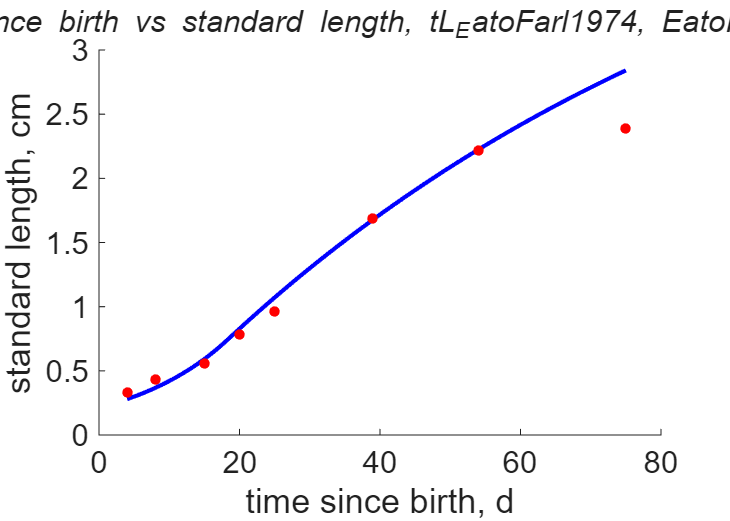
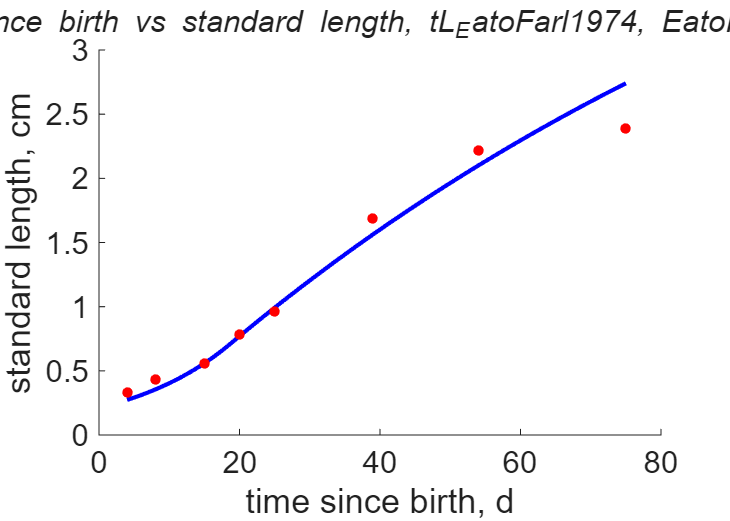
Fixed mistake in prediction of reproduction over time

Changed region(s): [[0.1808, 0.1228, 0.874, 0.7678]]

diff --git a/data-full version less data only ODE/Danio_rerio_res.html b/data-full version less data only ODE/Danio_rerio_res.html
@@ -44,7 +44,7 @@
   </div>
 
   <div class="par">
-  <h4>COMPLETE = 4.6; MRE =    0.135; SMAE =    0.164; SMSE =    0.035 </h4>
+  <h4>COMPLETE = 4.6; MRE =    0.138; SMAE =    0.176; SMSE =    0.038 </h4>
   </div>
 
   <p class="clear"></p>
@@ -53,47 +53,47 @@
   <h2>Data & predictions</h2>
   <TABLE id="prd">
     <TR  class="head"><TH>data</TH> <TH>prd</TH> <TH>RE</TH>  <TH>symbol</TH> <TH>units</TH> <TH>description</TH> </TR>
-    <TR><TD>  5</TD> <TD>3.608</TD> <TD>0.2784</TD> <TD>ab</TD> <TD>d</TD> <TD>age at birth</TD></TR>
-    <TR><TD> 22</TD> <TD>19.43</TD> <TD>0.1167</TD> <TD>aj</TD> <TD>d</TD> <TD>age at metam</TD></TR>
-    <TR><TD> 75</TD> <TD>73.84</TD> <TD>0.01553</TD> <TD>ap</TD> <TD>d</TD> <TD>age at puberty</TD></TR>
-    <TR><TD>1642</TD> <TD>1641</TD> <TD>0.001068</TD> <TD>am</TD> <TD>d</TD> <TD>life span</TD></TR>
-    <TR><TD>0.07</TD> <TD>0.08513</TD> <TD>0.2161</TD> <TD>L0</TD> <TD>cm</TD> <TD>egg diameter</TD></TR>
-    <TR><TD>0.4</TD> <TD>0.2705</TD> <TD>0.3238</TD> <TD>Lb</TD> <TD>cm</TD> <TD>total length at birth</TD></TR>
-    <TR><TD>  1</TD> <TD>0.7972</TD> <TD>0.2028</TD> <TD>Lj</TD> <TD>cm</TD> <TD>total length at metam</TD></TR>
-    <TR><TD>3.25</TD> <TD>3.03</TD> <TD>0.06781</TD> <TD>Lp</TD> <TD>cm</TD> <TD>total length at puberty</TD></TR>
-    <TR><TD>  5</TD> <TD>5.69</TD> <TD>0.138</TD> <TD>Li</TD> <TD>cm</TD> <TD>ultimate total length</TD></TR>
-    <TR><TD>0.0001</TD> <TD>6.46e-05</TD> <TD>0.354</TD> <TD>Wd0</TD> <TD>g</TD> <TD>egg dry weight</TD></TR>
-    <TR><TD>  1</TD> <TD>1.254</TD> <TD>0.2541</TD> <TD>Wwi</TD> <TD>g</TD> <TD>ultimate wet weight</TD></TR>
-    <TR><TD>240</TD> <TD>201.9</TD> <TD>0.1586</TD> <TD>Ri</TD> <TD>#/d</TD> <TD>max reproduction</TD></TR>
-    <TR><TD>0.15</TD> <TD>0.151</TD> <TD>0.006699</TD> <TD>GSI</TD> <TD>g/g</TD> <TD>Gonado Somatic Index</TD></TR>
-    <TR><TD colspan="2">see figure</TD> <TD>0.08692</TD> <TD>tL_Schi2002</TD> <TD colspan="2">time since fertilization <font color="blue"><i>vs.</i></font> total length</TD>
-    <TR><TD colspan="2">see figure</TD> <TD>0.0839</TD> <TD>tL_EatoFarl1974</TD> <TD colspan="2">time since birth <font color="blue"><i>vs.</i></font> standard length</TD>
-    <TR><TD colspan="2">see figure</TD> <TD>0.101</TD> <TD>tL_BagaPels2001</TD> <TD colspan="2">time since fertilizatixon <font color="blue"><i>vs.</i></font> total length</TD>
-    <TR><TD colspan="2">see figure</TD> <TD>0.1578</TD> <TD>tWw_BagaPels2001</TD> <TD colspan="2">time since fertilization <font color="blue"><i>vs.</i></font> wet weight</TD>
-    <TR><TD colspan="2">see figure</TD> <TD>0.2065</TD> <TD>tWd_BagaPels2001</TD> <TD colspan="2">time since fertilization <font color="blue"><i>vs.</i></font> dry weight</TD>
-    <TR><TD colspan="2">see figure</TD> <TD>0.165</TD> <TD>tL_BestAdat2010</TD> <TD colspan="2">time since fertilization <font color="blue"><i>vs.</i></font> total length</TD>
-    <TR><TD colspan="2">see figure</TD> <TD>0.06289</TD> <TD>tL_LawrEber2002_high</TD> <TD colspan="2">time since birth <font color="blue"><i>vs.</i></font> total length</TD>
-    <TR><TD colspan="2">see figure</TD> <TD>0.04596</TD> <TD>tL_LawrEber2002_low</TD> <TD colspan="2">time since birth <font color="blue"><i>vs.</i></font> total length</TD>
-    <TR><TD colspan="2">see figure</TD> <TD>0.05048</TD> <TD>tLf1_BeauGous2015</TD> <TD colspan="2">time since fertilization <font color="blue"><i>vs.</i></font> standard length</TD>
-    <TR><TD colspan="2">see figure</TD> <TD>0.05544</TD> <TD>tLf2_BeauGous2015</TD> <TD colspan="2">time since fertilization <font color="blue"><i>vs.</i></font> standard length</TD>
-    <TR><TD colspan="2">see figure</TD> <TD>0.05982</TD> <TD>tLf3_BeauGous2015</TD> <TD colspan="2">time since fertilization <font color="blue"><i>vs.</i></font> standard length</TD>
-    <TR><TD colspan="2">see figure</TD> <TD>0.1147</TD> <TD>tL1</TD> <TD colspan="2">time <font color="blue"><i>vs.</i></font> standard length <font color="blue"></TD>
-    <TR><TD>0.8632</TD> <TD>1.059</TD> <TD>0.2264</TD> <TD>Wwt</TD> <TD>g</TD> <TD>final wet weight</TD></TR>
-    <TR><TD colspan="2">see figure</TD> <TD>0.3136</TD> <TD>tN</TD> <TD colspan="2">time <font color="blue"><i>vs.</i></font> cumulated number of eggs</TD>
-    <TR><TD colspan="2">see figure</TD> <TD>0.1145</TD> <TD>tWw_ValKwa2022</TD> <TD colspan="2">time <font color="blue"><i>vs.</i></font> wet weight</TD>
-    <TR><TD colspan="2">see figure</TD> <TD>0.1221</TD> <TD>tL_ValKwa2022</TD> <TD colspan="2">time <font color="blue"><i>vs.</i></font> total length</TD>
-    <TR><TD colspan="2">see figure</TD> <TD>0.09052</TD> <TD>tJX_ValKwa2022</TD> <TD colspan="2">time <font color="blue"><i>vs.</i></font> feed intake</TD>
-    <TR><TD colspan="2">see figure</TD> <TD>0.03743</TD> <TD>tL_YangYama2019</TD> <TD colspan="2">time <font color="blue"><i>vs.</i></font> total length</TD>
-    <TR><TD colspan="2">see figure</TD> <TD>0.07116</TD> <TD>tWw_YangYama2019</TD> <TD colspan="2">time <font color="blue"><i>vs.</i></font> wet weight</TD>
-    <TR><TD colspan="2">see figure</TD> <TD>0.1511</TD> <TD>tJO_YangYama2019</TD> <TD colspan="2">time <font color="blue"><i>vs.</i></font> oxygen consumption</TD>
-    <TR class="psd"><TD>0.02</TD> <TD>0.03255</TD> <TD>0.6274</TD> <TD>psd.v</TD> <TD>cm/d</TD> <TD>energy conductance</TD></TR>
-    <TR class="psd"><TD> 18</TD> <TD>140.3</TD> <TD>6.795</TD> <TD>psd.p_M</TD> <TD>J/d.cm^3</TD> <TD>vol-spec som maint</TD></TR>
-    <TR class="psd"><TD>0.002</TD> <TD>0.003041</TD> <TD>0.5205</TD> <TD>psd.k_J</TD> <TD>1/d</TD> <TD>maturity maint rate coefficient</TD></TR>
-    <TR class="psd"><TD>0.3</TD> <TD>0.1131</TD> <TD>0.623</TD> <TD>psd.k</TD> <TD>-</TD> <TD>maintenance ratio</TD></TR>
-    <TR class="psd"><TD>0.8</TD> <TD>0.3378</TD> <TD>0.5778</TD> <TD>psd.kap</TD> <TD>-</TD> <TD>allocation fraction to soma</TD></TR>
-    <TR class="psd"><TD>0.8</TD> <TD>0.8018</TD> <TD>0.002268</TD> <TD>psd.kap_G</TD> <TD>-</TD> <TD>growth efficiency</TD></TR>
+    <TR><TD>  5</TD> <TD>3.883</TD> <TD>0.2234</TD> <TD>ab</TD> <TD>d</TD> <TD>age at birth</TD></TR>
+    <TR><TD> 22</TD> <TD>21.27</TD> <TD>0.03299</TD> <TD>aj</TD> <TD>d</TD> <TD>age at metam</TD></TR>
+    <TR><TD> 75</TD> <TD>76.94</TD> <TD>0.0259</TD> <TD>ap</TD> <TD>d</TD> <TD>age at puberty</TD></TR>
+    <TR><TD>1642</TD> <TD>1643</TD> <TD>1.207e-08</TD> <TD>am</TD> <TD>d</TD> <TD>life span</TD></TR>
+    <TR><TD>0.07</TD> <TD>0.08126</TD> <TD>0.1608</TD> <TD>L0</TD> <TD>cm</TD> <TD>egg diameter</TD></TR>
+    <TR><TD>0.4</TD> <TD>0.2682</TD> <TD>0.3296</TD> <TD>Lb</TD> <TD>cm</TD> <TD>total length at birth</TD></TR>
+    <TR><TD>  1</TD> <TD>0.752</TD> <TD>0.248</TD> <TD>Lj</TD> <TD>cm</TD> <TD>total length at metam</TD></TR>
+    <TR><TD>3.25</TD> <TD>2.972</TD> <TD>0.08553</TD> <TD>Lp</TD> <TD>cm</TD> <TD>total length at puberty</TD></TR>
+    <TR><TD>  5</TD> <TD>5.904</TD> <TD>0.1808</TD> <TD>Li</TD> <TD>cm</TD> <TD>ultimate total length</TD></TR>
+    <TR><TD>0.0001</TD> <TD>5.618e-05</TD> <TD>0.4382</TD> <TD>Wd0</TD> <TD>g</TD> <TD>egg dry weight</TD></TR>
+    <TR><TD>  1</TD> <TD>1.175</TD> <TD>0.1745</TD> <TD>Wwi</TD> <TD>g</TD> <TD>ultimate wet weight</TD></TR>
+    <TR><TD>240</TD> <TD>183.5</TD> <TD>0.2354</TD> <TD>Ri</TD> <TD>#/d</TD> <TD>max reproduction</TD></TR>
+    <TR><TD>0.15</TD> <TD>0.132</TD> <TD>0.1202</TD> <TD>GSI</TD> <TD>g/g</TD> <TD>Gonado Somatic Index</TD></TR>
+    <TR><TD colspan="2">see figure</TD> <TD>0.09091</TD> <TD>tL_Schi2002</TD> <TD colspan="2">time since fertilization <font color="blue"><i>vs.</i></font> total length</TD>
+    <TR><TD colspan="2">see figure</TD> <TD>0.08372</TD> <TD>tL_EatoFarl1974</TD> <TD colspan="2">time since birth <font color="blue"><i>vs.</i></font> standard length</TD>
+    <TR><TD colspan="2">see figure</TD> <TD>0.1277</TD> <TD>tL_BagaPels2001</TD> <TD colspan="2">time since fertilizatixon <font color="blue"><i>vs.</i></font> total length</TD>
+    <TR><TD colspan="2">see figure</TD> <TD>0.1692</TD> <TD>tWw_BagaPels2001</TD> <TD colspan="2">time since fertilization <font color="blue"><i>vs.</i></font> wet weight</TD>
+    <TR><TD colspan="2">see figure</TD> <TD>0.2479</TD> <TD>tWd_BagaPels2001</TD> <TD colspan="2">time since fertilization <font color="blue"><i>vs.</i></font> dry weight</TD>
+    <TR><TD colspan="2">see figure</TD> <TD>0.1843</TD> <TD>tL_BestAdat2010</TD> <TD colspan="2">time since fertilization <font color="blue"><i>vs.</i></font> total length</TD>
+    <TR><TD colspan="2">see figure</TD> <TD>0.07097</TD> <TD>tL_LawrEber2002_high</TD> <TD colspan="2">time since birth <font color="blue"><i>vs.</i></font> total length</TD>
+    <TR><TD colspan="2">see figure</TD> <TD>0.05551</TD> <TD>tL_LawrEber2002_low</TD> <TD colspan="2">time since birth <font color="blue"><i>vs.</i></font> total length</TD>
+    <TR><TD colspan="2">see figure</TD> <TD>0.04804</TD> <TD>tLf1_BeauGous2015</TD> <TD colspan="2">time since fertilization <font color="blue"><i>vs.</i></font> standard length</TD>
+    <TR><TD colspan="2">see figure</TD> <TD>0.0435</TD> <TD>tLf2_BeauGous2015</TD> <TD colspan="2">time since fertilization <font color="blue"><i>vs.</i></font> standard length</TD>
+    <TR><TD colspan="2">see figure</TD> <TD>0.04748</TD> <TD>tLf3_BeauGous2015</TD> <TD colspan="2">time since fertilization <font color="blue"><i>vs.</i></font> standard length</TD>
+    <TR><TD colspan="2">see figure</TD> <TD>0.01061</TD> <TD>tL1</TD> <TD colspan="2">time <font color="blue"><i>vs.</i></font> standard length <font color="blue"></TD>
+    <TR><TD>0.8632</TD> <TD>0.9666</TD> <TD>0.1198</TD> <TD>Wwt</TD> <TD>g</TD> <TD>final wet weight</TD></TR>
+    <TR><TD colspan="2">see figure</TD> <TD>0.2104</TD> <TD>tN</TD> <TD colspan="2">time <font color="blue"><i>vs.</i></font> cumulated number of eggs</TD>
+    <TR><TD colspan="2">see figure</TD> <TD>0.1076</TD> <TD>tWw_ValKwa2022</TD> <TD colspan="2">time <font color="blue"><i>vs.</i></font> wet weight</TD>
+    <TR><TD colspan="2">see figure</TD> <TD>0.1366</TD> <TD>tL_ValKwa2022</TD> <TD colspan="2">time <font color="blue"><i>vs.</i></font> total length</TD>
+    <TR><TD colspan="2">see figure</TD> <TD>0.09701</TD> <TD>tJX_ValKwa2022</TD> <TD colspan="2">time <font color="blue"><i>vs.</i></font> feed intake</TD>
+    <TR><TD colspan="2">see figure</TD> <TD>0.08354</TD> <TD>tL_YangYama2019</TD> <TD colspan="2">time <font color="blue"><i>vs.</i></font> total length</TD>
+    <TR><TD colspan="2">see figure</TD> <TD>0.1446</TD> <TD>tWw_YangYama2019</TD> <TD colspan="2">time <font color="blue"><i>vs.</i></font> wet weight</TD>
+    <TR><TD colspan="2">see figure</TD> <TD>0.217</TD> <TD>tJO_YangYama2019</TD> <TD colspan="2">time <font color="blue"><i>vs.</i></font> oxygen consumption</TD>
+    <TR class="psd"><TD>0.02</TD> <TD>0.02933</TD> <TD>0.4665</TD> <TD>psd.v</TD> <TD>cm/d</TD> <TD>energy conductance</TD></TR>
+    <TR class="psd"><TD> 18</TD> <TD>103.8</TD> <TD>4.766</TD> <TD>psd.p_M</TD> <TD>J/d.cm^3</TD> <TD>vol-spec som maint</TD></TR>
+    <TR class="psd"><TD>0.002</TD> <TD>0.002</TD> <TD>  0</TD> <TD>psd.k_J</TD> <TD>1/d</TD> <TD>maturity maint rate coefficient</TD></TR>
+    <TR class="psd"><TD>0.3</TD> <TD>0.1008</TD> <TD>0.664</TD> <TD>psd.k</TD> <TD>-</TD> <TD>maintenance ratio</TD></TR>
+    <TR class="psd"><TD>0.8</TD> <TD>0.321</TD> <TD>0.5987</TD> <TD>psd.kap</TD> <TD>-</TD> <TD>allocation fraction to soma</TD></TR>
+    <TR class="psd"><TD>0.8</TD> <TD>0.7998</TD> <TD>0.0002767</TD> <TD>psd.kap_G</TD> <TD>-</TD> <TD>growth efficiency</TD></TR>
     <TR class="psd"><TD>0.95</TD> <TD>0.95</TD> <TD>  0</TD> <TD>psd.kap_R</TD> <TD>-</TD> <TD>reproduction efficiency</TD></TR>
-    <TR class="psd"><TD>0.01</TD> <TD>0.002068</TD> <TD>0.7932</TD> <TD>psd.s_s</TD> <TD>-</TD> <TD>supply stress</TD></TR>
+    <TR class="psd"><TD>0.01</TD> <TD>0.001307</TD> <TD>0.8693</TD> <TD>psd.s_s</TD> <TD>-</TD> <TD>supply stress</TD></TR>
   </TABLE>
   </div>
 
@@ -103,35 +103,35 @@
     <TR class="head"><TH>symbol</TH> <TH>units</TH> <TH>value</TH>  <TH>free</TH> <TH>description</TH> </TR>
     <TR><TD>T_ref</TD> <TD>K</TD> <TD>293.1</TD> <TD>0</TD> <TD>Reference temperature</TD></TR>
     <TR><TD>T_A</TD> <TD>K</TD> <TD>8000</TD> <TD>0</TD> <TD>Arrhenius temp</TD></TR>
-    <TR><TD>z</TD> <TD>-</TD> <TD>0.2991</TD> <TD>1</TD> <TD>zoom factor</TD></TR>
+    <TR><TD>z</TD> <TD>-</TD> <TD>0.3123</TD> <TD>0</TD> <TD>zoom factor</TD></TR>
     <TR><TD>F_m</TD> <TD>l/d.cm^2</TD> <TD>6.5</TD> <TD>0</TD> <TD>{F_m}, max spec searching rate</TD></TR>
-    <TR><TD>kap_X</TD> <TD>-</TD> <TD>0.7563</TD> <TD>1</TD> <TD>digestion efficiency of food to reserve</TD></TR>
-    <TR><TD>kap_P</TD> <TD>-</TD> <TD>0.1534</TD> <TD>1</TD> <TD>faecation efficiency of food to faeces</TD></TR>
-    <TR><TD>v</TD> <TD>cm/d</TD> <TD>0.03255</TD> <TD>1</TD> <TD>energy conductance</TD></TR>
-    <TR><TD>kap</TD> <TD>-</TD> <TD>0.3378</TD> <TD>1</TD> <TD>allocation fraction to soma</TD></TR>
-    <TR><TD>p_M</TD> <TD>J/d.cm^3</TD> <TD>140.3</TD> <TD>1</TD> <TD>[p_M], vol-spec somatic maint</TD></TR>
+    <TR><TD>kap_X</TD> <TD>-</TD> <TD>0.6518</TD> <TD>0</TD> <TD>digestion efficiency of food to reserve</TD></TR>
+    <TR><TD>kap_P</TD> <TD>-</TD> <TD>0.1312</TD> <TD>0</TD> <TD>faecation efficiency of food to faeces</TD></TR>
+    <TR><TD>v</TD> <TD>cm/d</TD> <TD>0.02933</TD> <TD>0</TD> <TD>energy conductance</TD></TR>
+    <TR><TD>kap</TD> <TD>-</TD> <TD>0.321</TD> <TD>0</TD> <TD>allocation fraction to soma</TD></TR>
+    <TR><TD>p_M</TD> <TD>J/d.cm^3</TD> <TD>103.8</TD> <TD>0</TD> <TD>[p_M], vol-spec somatic maint</TD></TR>
     <TR><TD>p_T</TD> <TD>J/d.cm^2</TD> <TD>  0</TD> <TD>0</TD> <TD>{p_T}, surf-spec somatic maint</TD></TR>
-    <TR><TD>k_J</TD> <TD>1/d</TD> <TD>0.003041</TD> <TD>1</TD> <TD>maturity maint rate coefficient</TD></TR>
-    <TR><TD>E_G</TD> <TD>J/cm^3</TD> <TD>5218</TD> <TD>1</TD> <TD>[E_G], spec cost for structure</TD></TR>
-    <TR><TD>E_Hb</TD> <TD>J</TD> <TD>0.793</TD> <TD>1</TD> <TD>maturity at birth</TD></TR>
-    <TR><TD>E_Hj</TD> <TD>J</TD> <TD>22.65</TD> <TD>1</TD> <TD>maturity at metam</TD></TR>
-    <TR><TD>E_Hp</TD> <TD>J</TD> <TD>1894</TD> <TD>1</TD> <TD>maturity at puberty</TD></TR>
+    <TR><TD>k_J</TD> <TD>1/d</TD> <TD>0.002</TD> <TD>0</TD> <TD>maturity maint rate coefficient</TD></TR>
+    <TR><TD>E_G</TD> <TD>J/cm^3</TD> <TD>5232</TD> <TD>0</TD> <TD>[E_G], spec cost for structure</TD></TR>
+    <TR><TD>E_Hb</TD> <TD>J</TD> <TD>0.7271</TD> <TD>0</TD> <TD>maturity at birth</TD></TR>
+    <TR><TD>E_Hj</TD> <TD>J</TD> <TD>17.69</TD> <TD>0</TD> <TD>maturity at metam</TD></TR>
+    <TR><TD>E_Hp</TD> <TD>J</TD> <TD>1520</TD> <TD>0</TD> <TD>maturity at puberty</TD></TR>
     <TR><TD>kap_R</TD> <TD>-</TD> <TD>0.95</TD> <TD>0</TD> <TD>reproduction efficiency</TD></TR>
-    <TR><TD>h_a</TD> <TD>1/d^2</TD> <TD>1.692e-09</TD> <TD>1</TD> <TD>Weibull aging acceleration</TD></TR>
-    <TR><TD>s_G</TD> <TD>-</TD> <TD>0.0001069</TD> <TD>0</TD> <TD>Gompertz stress coefficient</TD></TR>
-    <TR><TD>del_Mt</TD> <TD>-</TD> <TD>0.155</TD> <TD>1</TD> <TD>shape coefficient for adult</TD></TR>
+    <TR><TD>h_a</TD> <TD>1/d^2</TD> <TD>2.197e-09</TD> <TD>0</TD> <TD>Weibull aging acceleration</TD></TR>
+    <TR><TD>s_G</TD> <TD>-</TD> <TD>0.0001</TD> <TD>0</TD> <TD>Gompertz stress coefficient</TD></TR>
+    <TR><TD>del_Mt</TD> <TD>-</TD> <TD>0.1484</TD> <TD>0</TD> <TD>shape coefficient for adult</TD></TR>
     <TR><TD>V_0</TD> <TD>cm^3</TD> <TD>1e-10</TD> <TD>0</TD> <TD>initial structure of egg</TD></TR>
     <TR><TD>f</TD> <TD>-</TD> <TD>  1</TD> <TD>0</TD> <TD>scaled functional response</TD></TR>
-    <TR><TD>f_BagaPels2001</TD> <TD>-</TD> <TD>0.5928</TD> <TD>1</TD> <TD>scaled functional response of BagaPels2001 data</TD></TR>
-    <TR><TD>f_BeauGous2015L</TD> <TD>-</TD> <TD>0.6522</TD> <TD>1</TD> <TD>sc. func. resp., BeauGous2015, length data</TD></TR>
-    <TR><TD>f_BeauGous2015R</TD> <TD>-</TD> <TD>1.384</TD> <TD>1</TD> <TD>sc. func. resp., BeauGous2015, reproduction data</TD></TR>
-    <TR><TD>f_BestAdat2010</TD> <TD>-</TD> <TD>1.055</TD> <TD>1</TD> <TD>scaled functional response of BestAdat2010 data</TD></TR>
-    <TR><TD>f_EatoFarl1974</TD> <TD>-</TD> <TD>0.9478</TD> <TD>1</TD> <TD>scaled functional response of EatoFarl1974b data</TD></TR>
-    <TR><TD>f_LawrEber2002_high</TD> <TD>-</TD> <TD>0.875</TD> <TD>1</TD> <TD>scaled functional response of LawrEber2002_high data</TD></TR>
-    <TR><TD>f_LawrEber2002_low</TD> <TD>-</TD> <TD>0.5604</TD> <TD>1</TD> <TD>scaled functional response of LawrEber2002_low data</TD></TR>
-    <TR><TD>f_Schi2002</TD> <TD>-</TD> <TD>0.54</TD> <TD>1</TD> <TD>scaled functional response of Schi2002 data</TD></TR>
-    <TR><TD>f_ValKwa2022</TD> <TD>-</TD> <TD>0.8139</TD> <TD>1</TD> <TD>scaled functional response of ValKwa2022 data</TD></TR>
-    <TR><TD>f_YangYama2019</TD> <TD>-</TD> <TD>0.676</TD> <TD>1</TD> <TD>scaled functional response of YangYama2019 data</TD></TR>
+    <TR><TD>f_BagaPels2001</TD> <TD>-</TD> <TD>0.7311</TD> <TD>1</TD> <TD>scaled functional response of BagaPels2001 data</TD></TR>
+    <TR><TD>f_BeauGous2015L</TD> <TD>-</TD> <TD>0.7517</TD> <TD>1</TD> <TD>sc. func. resp., BeauGous2015, length data</TD></TR>
+    <TR><TD>f_BeauGous2015R</TD> <TD>-</TD> <TD>1.174</TD> <TD>1</TD> <TD>sc. func. resp., BeauGous2015, reproduction data</TD></TR>
+    <TR><TD>f_BestAdat2010</TD> <TD>-</TD> <TD>1.186</TD> <TD>1</TD> <TD>scaled functional response of BestAdat2010 data</TD></TR>
+    <TR><TD>f_EatoFarl1974</TD> <TD>-</TD> <TD>1.051</TD> <TD>1</TD> <TD>scaled functional response of EatoFarl1974b data</TD></TR>
+    <TR><TD>f_LawrEber2002_high</TD> <TD>-</TD> <TD>0.9891</TD> <TD>1</TD> <TD>scaled functional response of LawrEber2002_high data</TD></TR>
+    <TR><TD>f_LawrEber2002_low</TD> <TD>-</TD> <TD>0.6321</TD> <TD>1</TD> <TD>scaled functional response of LawrEber2002_low data</TD></TR>
+    <TR><TD>f_Schi2002</TD> <TD>-</TD> <TD>0.634</TD> <TD>1</TD> <TD>scaled functional response of Schi2002 data</TD></TR>
+    <TR><TD>f_ValKwa2022</TD> <TD>-</TD> <TD>1.008</TD> <TD>1</TD> <TD>scaled functional response of ValKwa2022 data</TD></TR>
+    <TR><TD>f_YangYama2019</TD> <TD>-</TD> <TD>0.6959</TD> <TD>1</TD> <TD>scaled functional response of YangYama2019 data</TD></TR>
   </TABLE>
   </div>
 

diff --git a/data-full version less data only ODE/pars_init_Danio_rerio.m b/data-full version less data only ODE/pars_init_Danio_rerio.m
@@ -18,19 +18,19 @@ par.v = 0.06714;      free.v     = p;   units.v = 'cm/d';         label.v = 'ene
 par.kap = 0.4156;     free.kap   = p;   units.kap = '-';          label.kap = 'allocation fraction to soma'; 
 par.p_M = 55.5502;    free.p_M   = p;   units.p_M = 'J/d.cm^3';   label.p_M = '[p_M], vol-spec somatic maint'; 
 par.p_T = 0;          free.p_T   = 0;   units.p_T = 'J/d.cm^2';   label.p_T = '{p_T}, surf-spec somatic maint'; 
-par.k_J = 0.002;      free.k_J   = p;   units.k_J = '1/d';        label.k_J = 'maturity maint rate coefficient'; 
+par.k_J = 0.002;      free.k_J   = 0;   units.k_J = '1/d';        label.k_J = 'maturity maint rate coefficient'; 
 par.E_G = 5127.2141;  free.E_G   = k;   units.E_G = 'J/cm^3';     label.E_G = '[E_G], spec cost for structure'; 
 par.E_Hb = 2.826e-01; free.E_Hb  = p;   units.E_Hb = 'J';         label.E_Hb = 'maturity at birth'; 
 par.E_Hj = 4.036e+00; free.E_Hj  = p;   units.E_Hj = 'J';         label.E_Hj = 'maturity at metam'; 
 par.E_Hp = 9.444e+02; free.E_Hp  = p;   units.E_Hp = 'J';         label.E_Hp = 'maturity at puberty'; 
 par.kap_R = 0.95;     free.kap_R = 0;   units.kap_R = '-';        label.kap_R = 'reproduction efficiency'; 
 par.h_a = 1.936e-08;  free.h_a   = p;   units.h_a = '1/d^2';      label.h_a = 'Weibull aging acceleration'; 
-par.s_G = 0.0001069;  free.s_G   = 0;   units.s_G = '-';          label.s_G = 'Gompertz stress coefficient'; 
+par.s_G = 0.0001;     free.s_G   = 0;   units.s_G = '-';          label.s_G = 'Gompertz stress coefficient'; 
 
 %% other parameters 
 % par.E_R_init_BeauGous2015 = 2000;  free.E_R_init_BeauGous2015 = 1;   units.E_R_init_BeauGous2015 = 'J';  label.E_R_init_BeauGous2015 = 'initial energy in the repro buffer, BeauGous2015'; 
 par.del_Mt = 0.1857;  free.del_Mt = p;   units.del_Mt = '-';       label.del_Mt = 'shape coefficient for adult'; 
-par.V_0 = 1e-10;        free.V_0 = 0;       units.V_0 = 'cm^3';        label.V_0 = 'initial structure of egg';
+par.V_0 = 1e-10;      free.V_0 = 0;      units.V_0 = 'cm^3';       label.V_0 = 'initial structure of egg';
 
 par.f = 1;                        free.f     = 0;   units.f = '-';            label.f = 'scaled functional response'; 
 par.f_BagaPels2001 = 1.0000;      free.f_BagaPels2001 = e;   units.f_BagaPels2001 = '-';  label.f_BagaPels2001 = 'scaled functional response of BagaPels2001 data'; 

diff --git a/data-full version less data only ODE/predict_Danio_rerio.m b/data-full version less data only ODE/predict_Danio_rerio.m
@@ -279,7 +279,7 @@ E_0 = U_E0 * p_Am;
 [~, ~, ~, L_b, L_j, L_p, info] = getAgeAndLengthAtTransitions(par, F, TC, E_0);
 if ~info; prdData = []; return; end
 s_M_F = L_j/L_b;
-V_init =  (max(L_p, init.tN * del_Mt))^3; % Either initial length or puberty length, whichever is largest
+V_init =  (max(L_p, init.tN * del_Ms))^3; % Either initial length or puberty length, whichever is largest
 E_init   = F * E_m * V_init;                  % J, inital energy in reserve
 max_E_R = get_max_E_R(V_init, par, E_m, F, s_M_F);
 

diff --git a/data-full version less data only ODE/run_Danio_rerio.m b/data-full version less data only ODE/run_Danio_rerio.m
@@ -11,11 +11,11 @@ estim_options('max_fun_evals',5e4);
 global simplex_size 
 simplex_size = 0.25;
 estim_options('simplex_size', simplex_size);
-estim_options('filter', 1);
+estim_options('filter', 3);
 tol_simplex = 1e-4;  
 estim_options('tol_simplex',tol_simplex);
 
-estim_options('pars_init_method', 3);
+estim_options('pars_init_method', 1);
 estim_options('results_output', 0);
 estim_options('method', 'nm');
 [nsteps, info, fval] = estim_pars;

diff --git a/data-full version less data only ODE/mydata_Danio_rerio.m b/data-full version less data only ODE/mydata_Danio_rerio.m
@@ -511,8 +511,8 @@ weights = setweights(data, []);
 % data.psd.kap_P = 0.27; units.psd.kap_P = '-'; label.psd.kap_P = 'faecation efficiency of food to faeces'; 
 % weights.psd.kap_P = 1;
 
-weights.psd.k_J = 0;
-weights.psd.k = .1;
+% weights.psd.k_J = 0;
+% weights.psd.k = .1;
 
 %% Auto add titles to univariate data
 title = struct();
